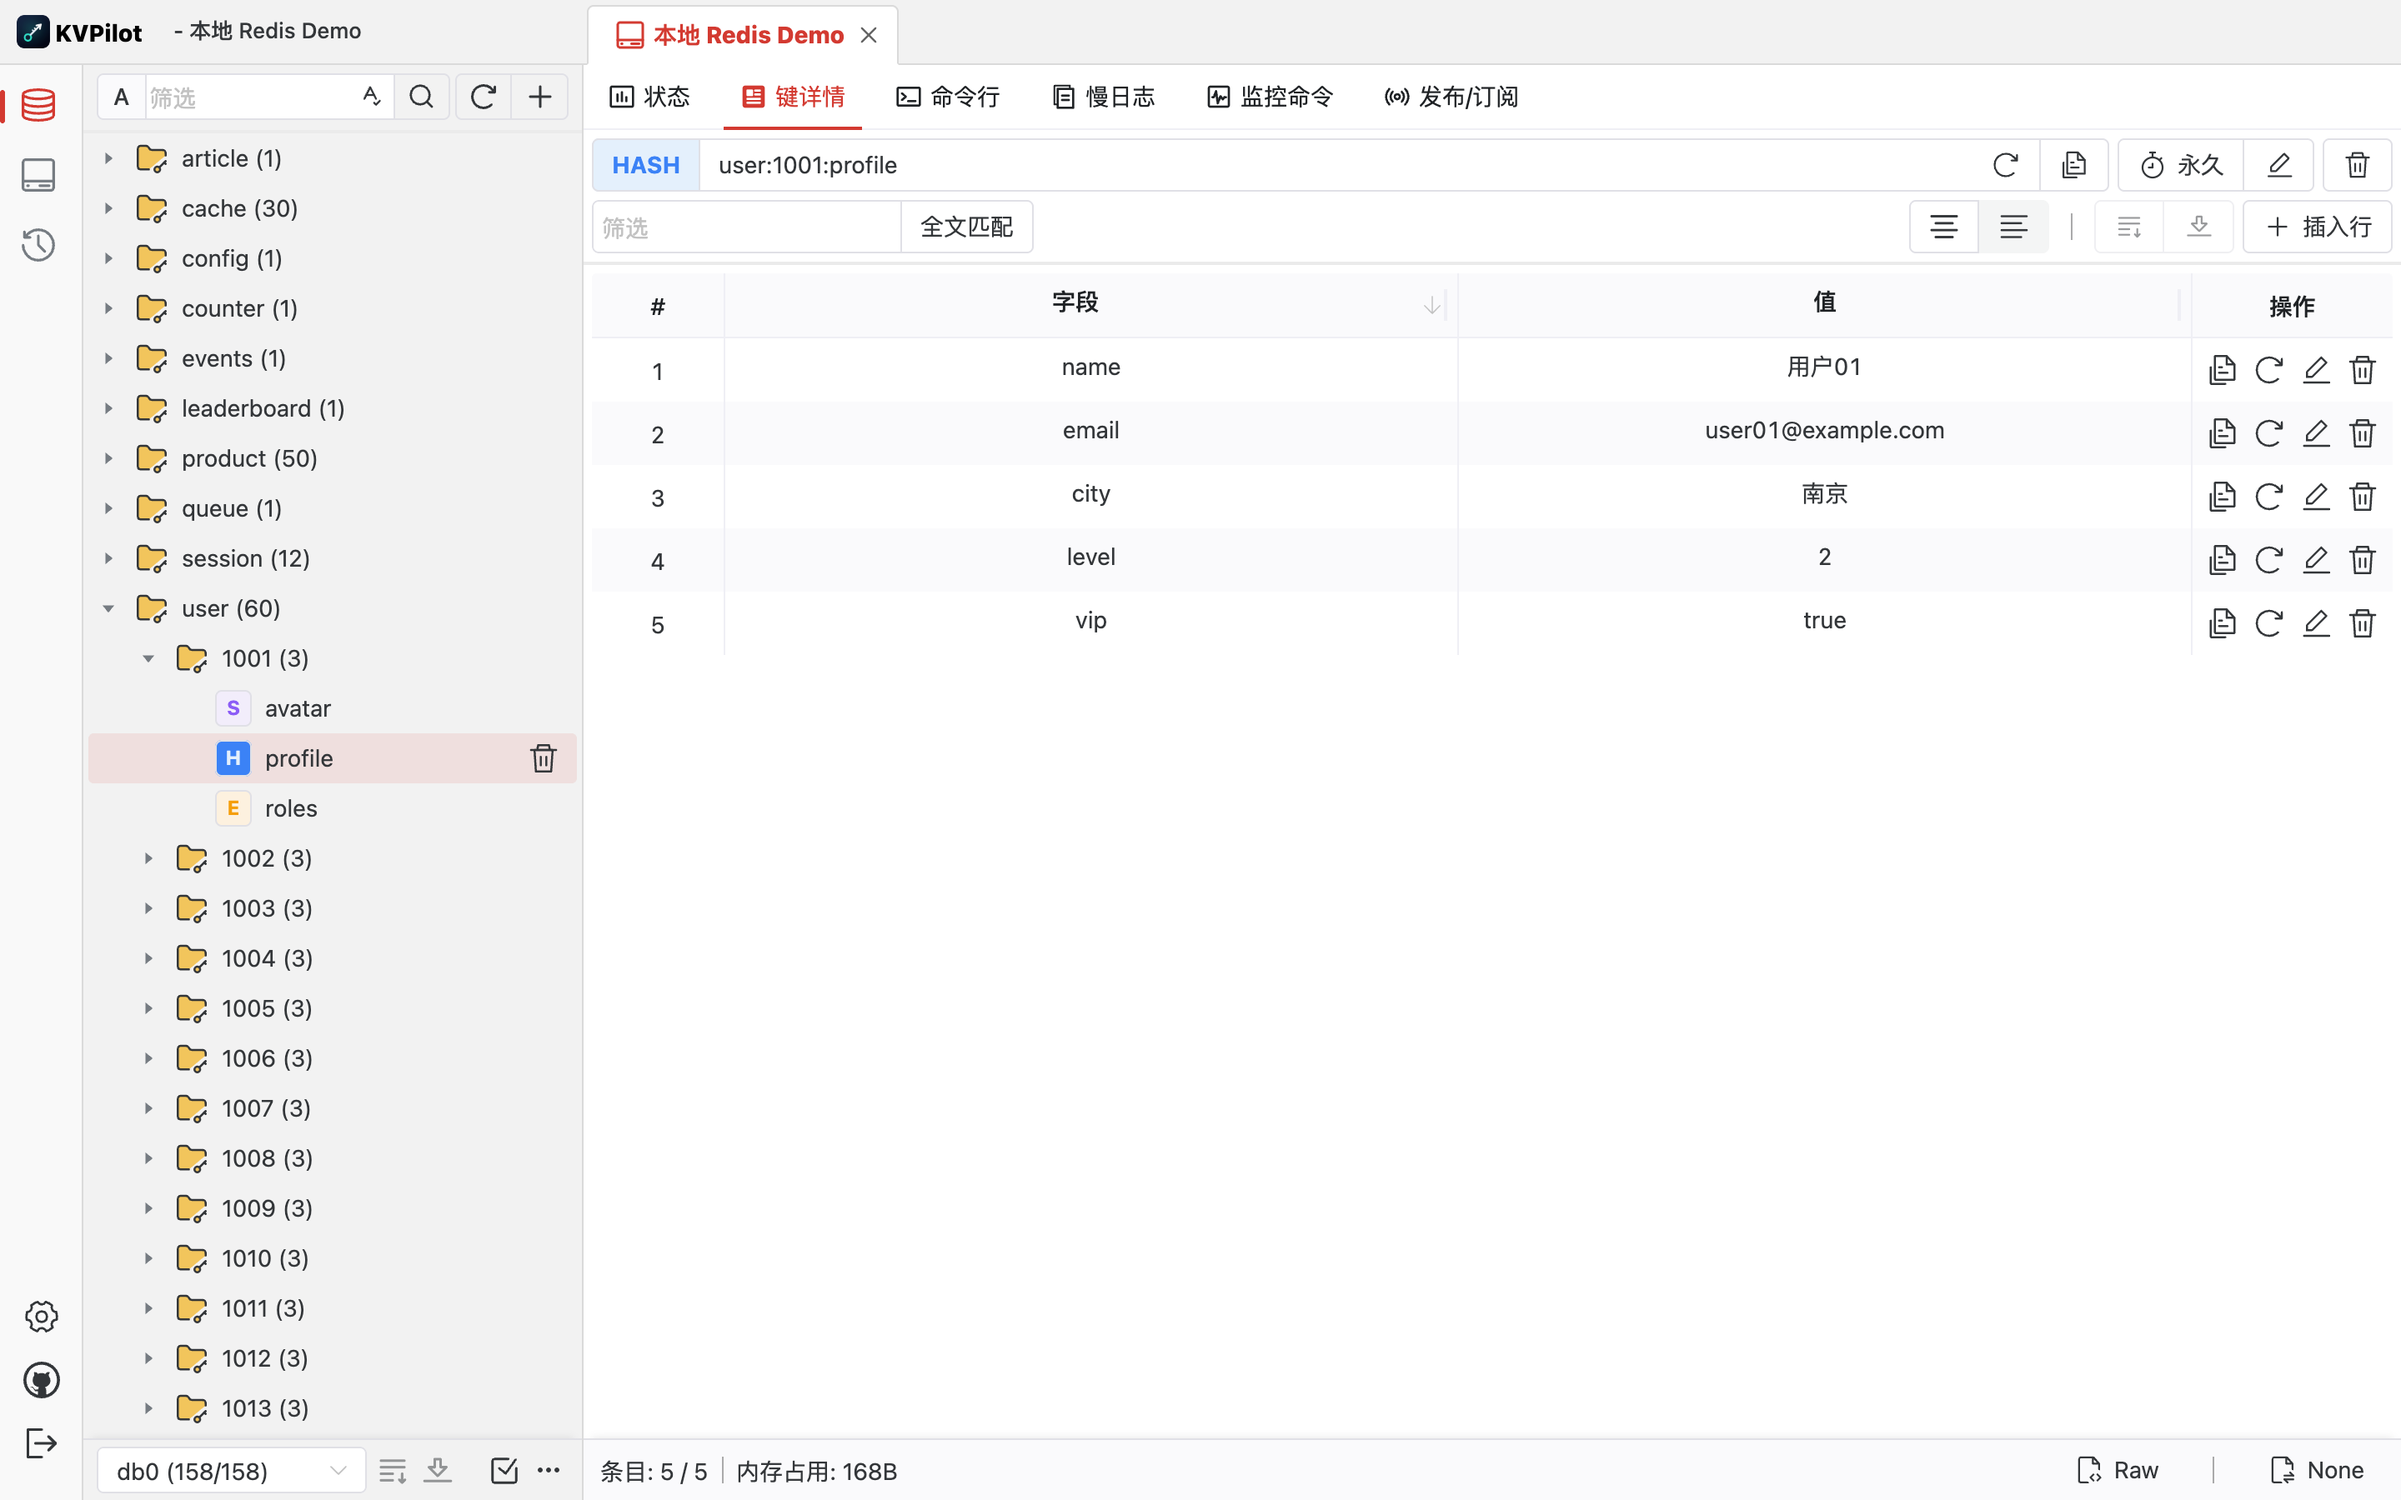
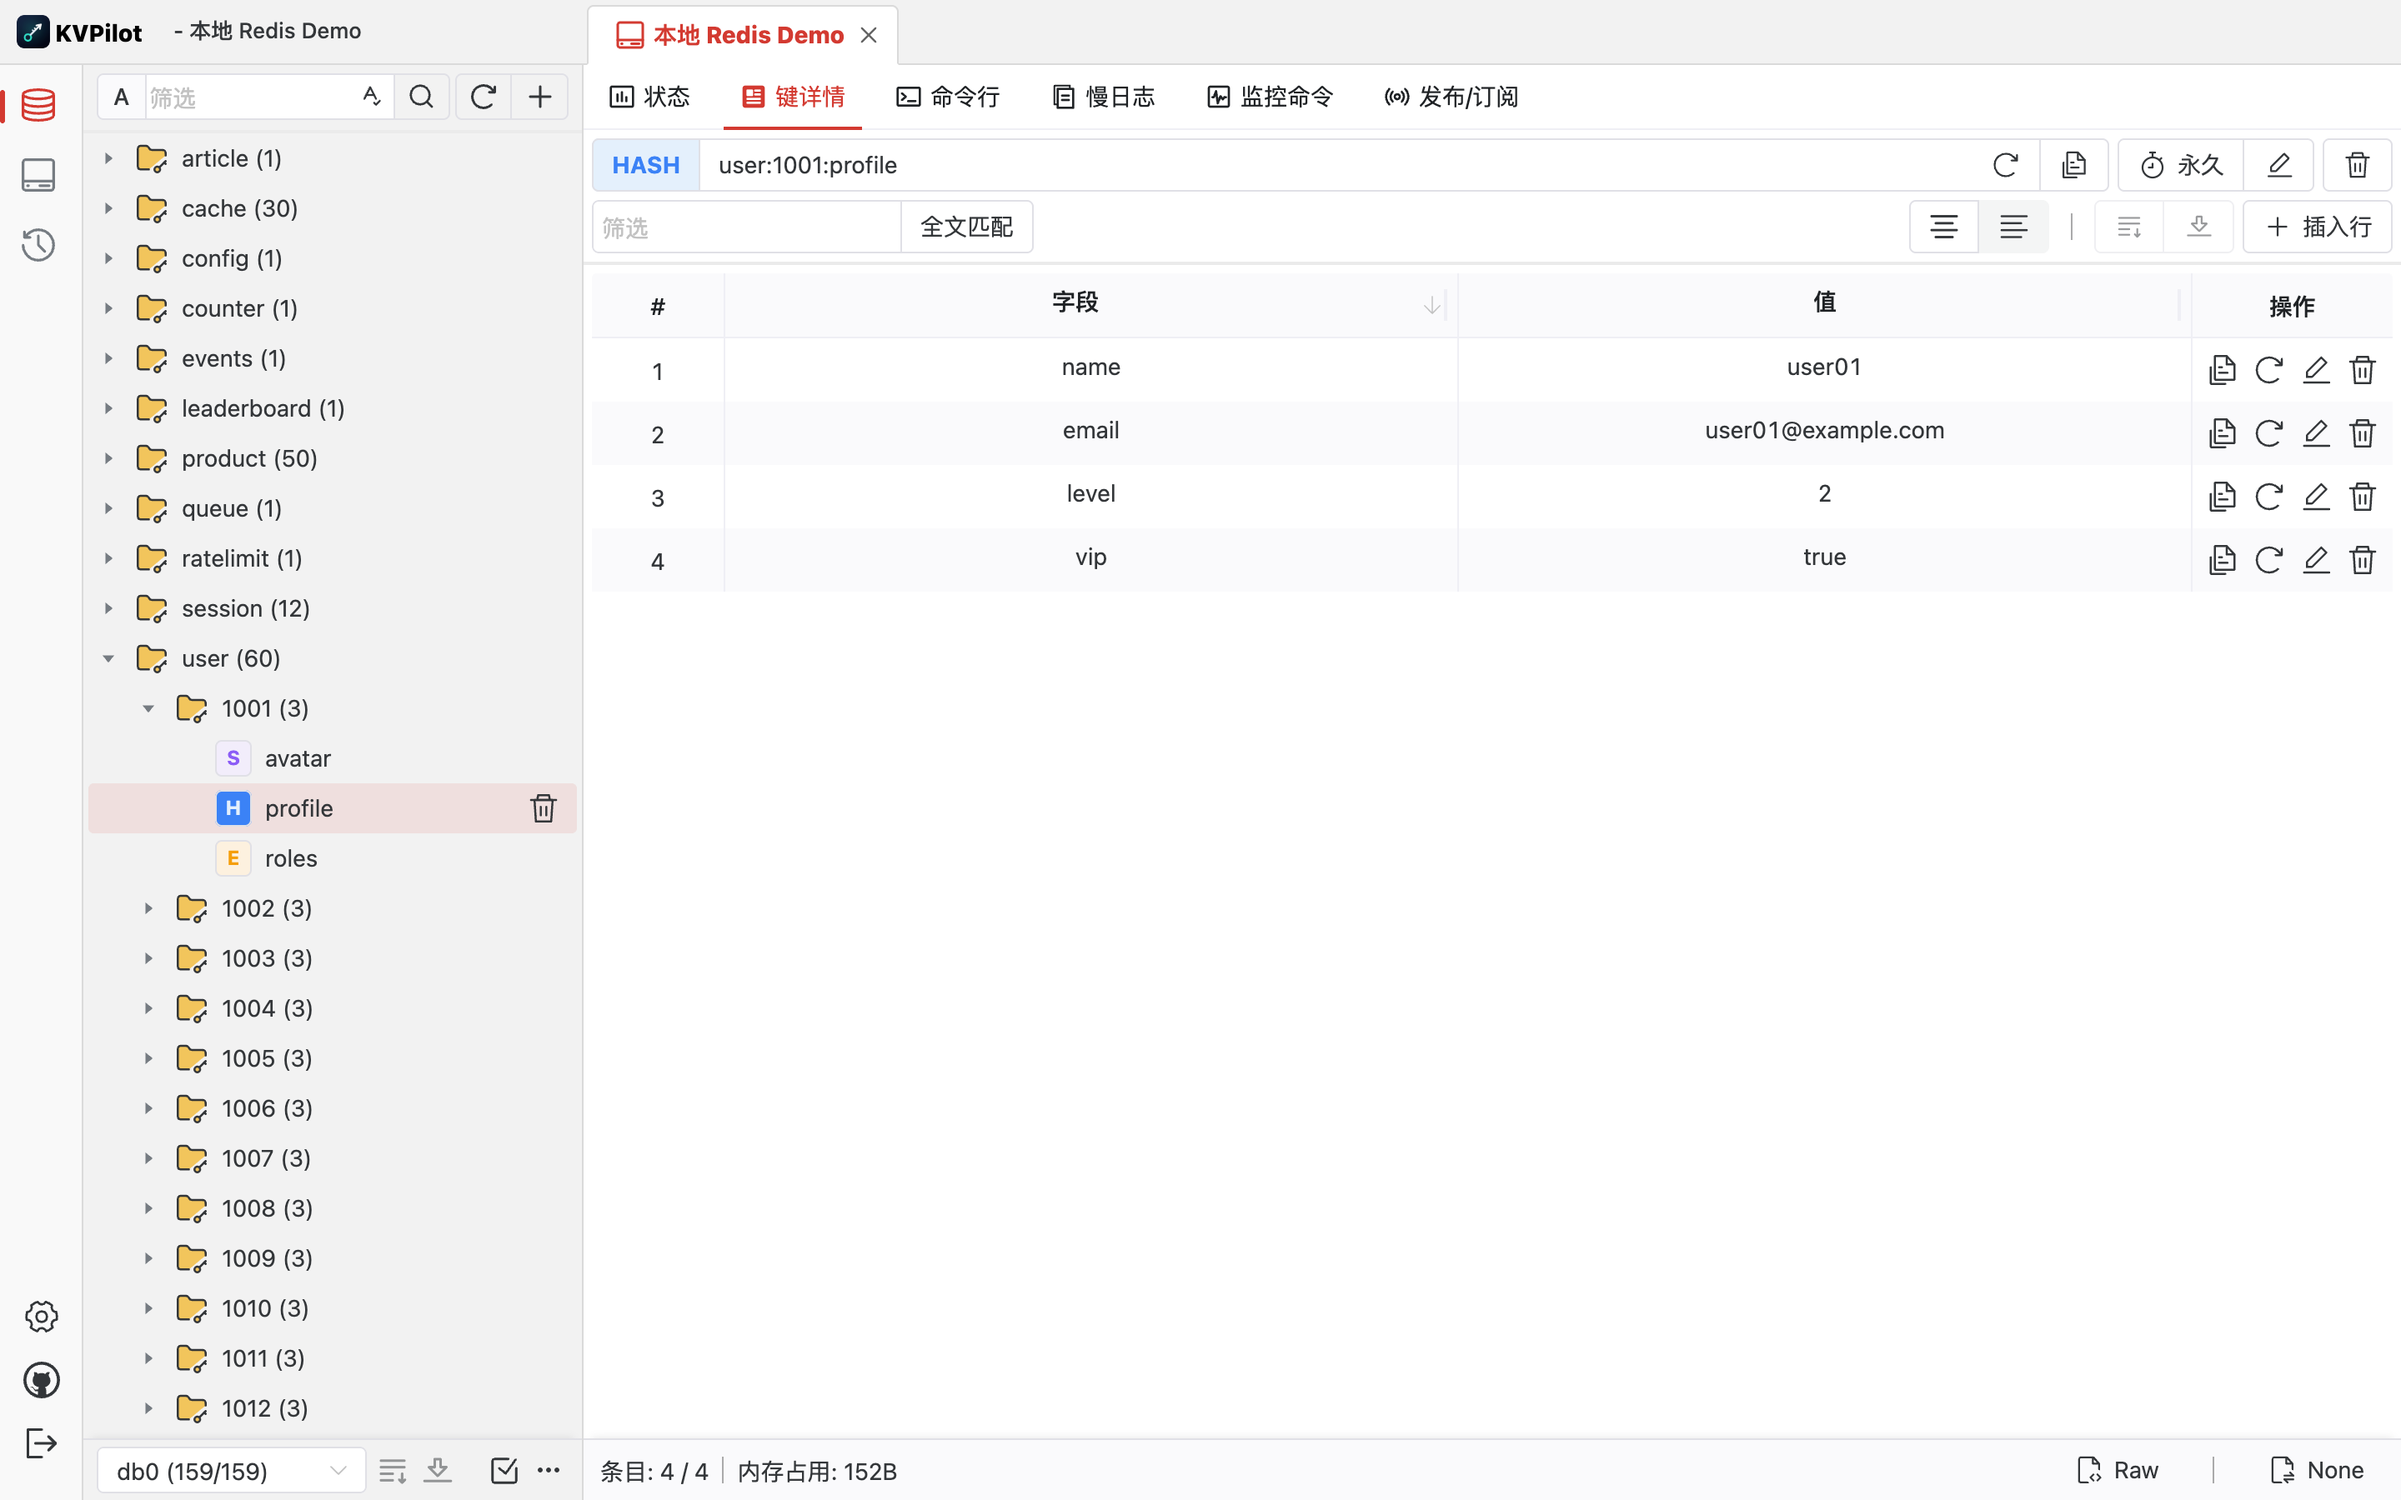
docs: regenerate screenshots without geographic demo data
- Drop the city field from user profiles and the ip field from session
  payloads in the demo data
- Regenerate the four light-mode screenshots
- Add scripts/seed-demo-data.py so the screenshot data can be reproduced

diff --git a/scripts/seed-demo-data.py b/scripts/seed-demo-data.py
@@ -1,0 +1,119 @@
+#!/usr/bin/env python3
+"""为 README 截图准备一份可读的演示数据（不包含任何真实或地理信息）。
+
+用法：
+    redis-server --port 6379 --requirepass demo123 --daemonize yes
+    python3 scripts/seed-demo-data.py
+
+可通过环境变量覆盖连接参数：
+    REDIS_HOST / REDIS_PORT / REDIS_PASSWORD
+"""
+import json
+import os
+import random
+import socket
+
+HOST = os.getenv("REDIS_HOST", "127.0.0.1")
+PORT = int(os.getenv("REDIS_PORT", "6379"))
+PASSWORD = os.getenv("REDIS_PASSWORD", "demo123")
+
+
+class Redis:
+    def __init__(self):
+        self.sock = socket.create_connection((HOST, PORT))
+        self.f = self.sock.makefile("rb")
+        self.cmd("AUTH", PASSWORD)
+
+    def cmd(self, *args):
+        out = b"*%d\r\n" % len(args)
+        for a in args:
+            b = str(a).encode()
+            out += b"$%d\r\n%s\r\n" % (len(b), b)
+        self.sock.sendall(out)
+        return self._read()
+
+    def _read(self):
+        line = self.f.readline()
+        t, body = line[:1], line[1:-2]
+        if t == b"+":
+            return body.decode()
+        if t == b"-":
+            raise RuntimeError(body.decode())
+        if t == b":":
+            return int(body)
+        if t == b"$":
+            n = int(body)
+            if n == -1:
+                return None
+            data = self.f.read(n + 2)[:-2]
+            return data.decode(errors="replace")
+        if t == b"*":
+            n = int(body)
+            return [self._read() for _ in range(n)] if n != -1 else None
+        raise RuntimeError(f"unexpected reply: {line!r}")
+
+
+r = Redis()
+r.cmd("FLUSHALL")
+
+random.seed(42)
+
+# 用户资料：hash + 关联 string/set
+for i in range(1, 21):
+    uid = 1000 + i
+    r.cmd("HSET", f"user:{uid}:profile", "name", f"user{i:02d}",
+          "email", f"user{i:02d}@example.com",
+          "level", random.randint(1, 9), "vip", random.choice(["true", "false"]))
+    r.cmd("SET", f"user:{uid}:avatar", f"https://cdn.example.com/avatar/{uid}.png")
+    r.cmd("SADD", f"user:{uid}:roles", *random.sample(["admin", "dev", "ops", "guest", "qa"], 2))
+
+# 商品
+for i in range(1, 26):
+    sku = 3000 + i
+    r.cmd("HSET", f"product:sku:{sku}", "title", f"商品 {i:02d}", "price", f"{random.randint(9, 999)}.00",
+          "stock", random.randint(0, 500), "status", random.choice(["online", "offline"]))
+    r.cmd("SET", f"product:sku:{sku}:cover", f"https://cdn.example.com/p/{sku}.jpg")
+
+# 会话（带 TTL）
+for i in range(1, 13):
+    r.cmd("SET", f"session:token:{i:04d}", json.dumps({"uid": 1000 + i, "ua": "Mozilla/5.0"}),
+          "EX", random.randint(600, 86400))
+
+# 页面缓存
+for i in range(1, 31):
+    r.cmd("SET", f"cache:page:/feed/{i}", "x" * random.randint(200, 800), "EX", 3600)
+
+# 订单队列
+r.cmd("DEL", "queue:orders")
+for i in range(12):
+    r.cmd("RPUSH", "queue:orders", json.dumps({"order": 90000 + i, "amount": random.randint(10, 900)}))
+
+# 标签集合
+r.cmd("DEL", "article:42:tags")
+r.cmd("SADD", "article:42:tags", "redis", "kv", "缓存", "性能", "运维")
+
+# 排行榜
+r.cmd("DEL", "leaderboard:weekly")
+for i, name in enumerate(["alice", "bob", "carol", "dave", "erin", "frank", "grace", "heidi"], start=1):
+    r.cmd("ZADD", "leaderboard:weekly", random.randint(100, 9999), name)
+
+# 事件流
+r.cmd("DEL", "events:stream")
+for i in range(8):
+    r.cmd("XADD", "events:stream", "*", "type", random.choice(["login", "logout", "purchase"]),
+          "uid", 1000 + i, "ok", "true")
+
+# 计数器与限流
+r.cmd("SET", "counter:page:view", 1284937)
+r.cmd("SET", "ratelimit:api:10.0.0.5", 42, "EX", 60)
+
+# 大文本（方便展示编辑器）
+r.cmd("SET", "config:app:settings", json.dumps({
+    "app": "kvpilot-demo", "version": "1.2.8", "features": ["arena", "cluster", "sentinel"],
+    "limits": {"max_conn": 200, "timeout_ms": 3000},
+}, ensure_ascii=False, indent=2))
+
+# 数据库信息
+print("db0 keys:", r.cmd("DBSIZE"))
+for key in ["user:1001:profile", "leaderboard:weekly", "events:stream"]:
+    print(key, "->", r.cmd("TYPE", key))
